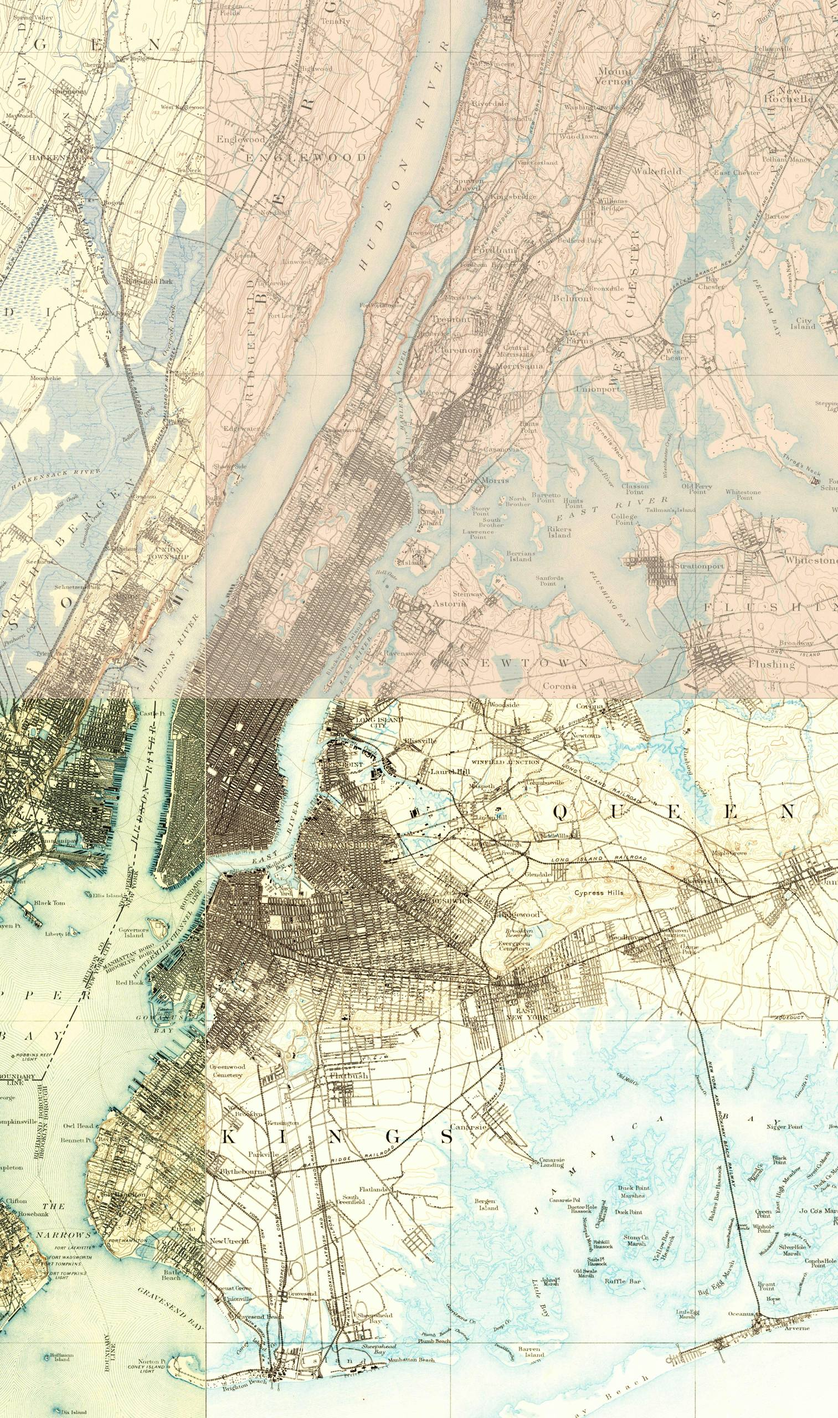
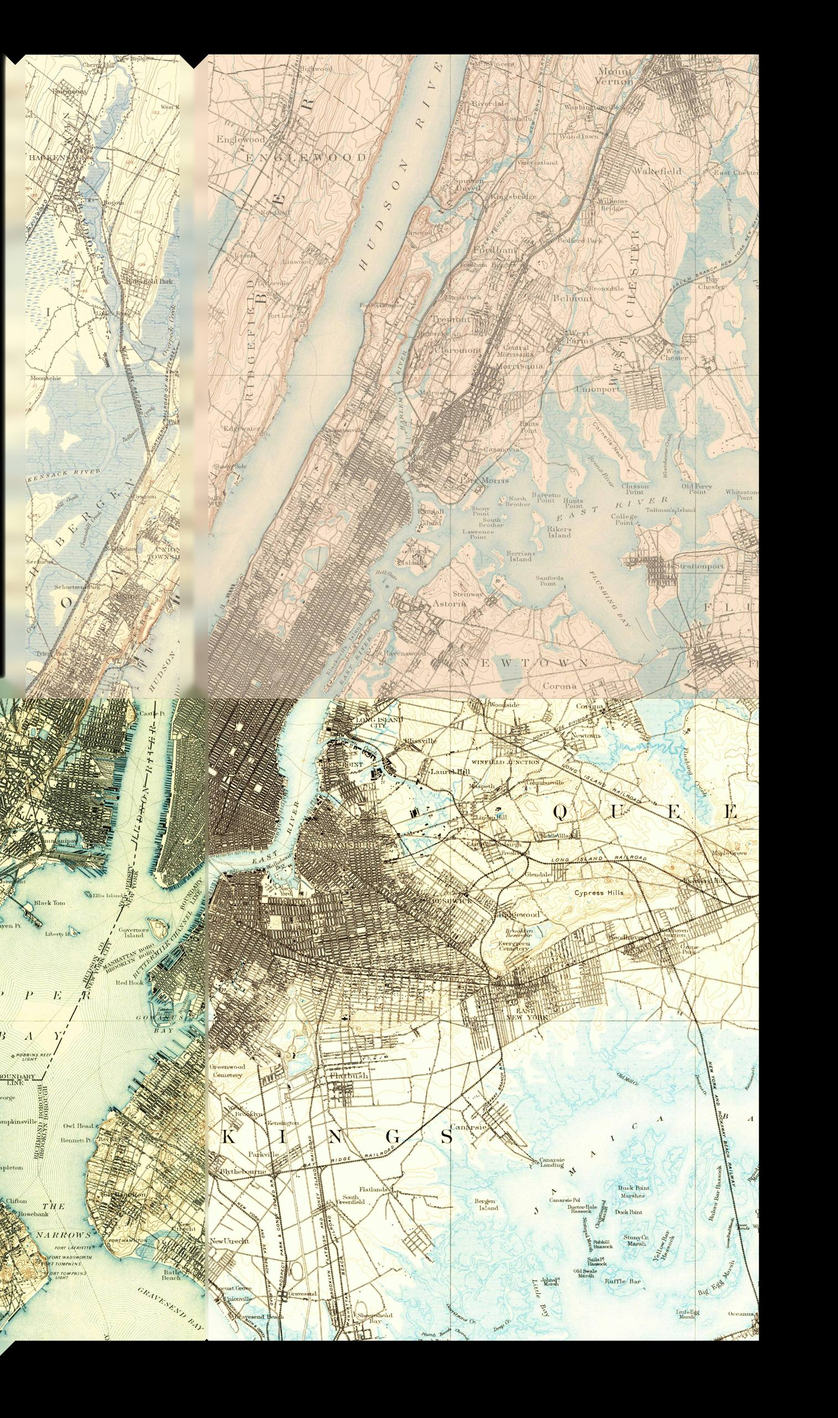
See-through water, more and smaller drops, town lists and use-vs-supply chart off the map, subtitle; trim map sheet collars
Claude-Session: https://claude.ai/code/session_01LXhDMrmviJH37T58DZayoe

Changed region(s): [[0.0, 0.0, 1.0, 1.0]]

diff --git a/web/src/main.ts b/web/src/main.ts
@@ -10,7 +10,7 @@ import { Bounds, Frame, HeightGrid, yOf, loadImage, mx, my } from "./geo";
 import { gridGeometry, shadeGLSL } from "./terrain";
 import { buildDam, DamData } from "./dams";
 import { TileTerrain } from "./tiles";
-import { buildDemand, storage, waterUse } from "./demand";
+import { buildDemand, storage, waterUse, demandSummary, DEMAND_NOTES } from "./demand";
 import { Catchments, catchGLSL, CatchInfo } from "./catchments";
 import { FlowParticles, buildPeaks, waterTableGrid } from "./flowfx";
 import { EPISODES, demandChart } from "./episodes";
@@ -104,6 +104,8 @@ async function main() {
     t.needsUpdate = true; return t;
   };
   const fillU = { value: new Float32Array(MAX_RES) };
+  // 1 while the old maps are shown: the water over them is then lighter, so the map shows through
+  const mapsU = { value: 1 };
   const box = (b: Bounds) => { const [x0, z0] = frame.xz(b.west, b.north), [x1, z1] = frame.xz(b.east, b.south); return new THREE.Vector4(x0, z0, x1, z1); };
   const regionBox = box(data.region.bounds);
   // the holes the tiles leave for the valley patches stop short of each patch's edge by its rim
@@ -293,7 +295,8 @@ async function main() {
           if ((id != ownId || vIn < 0.5) && id > 0 && id < ${MAX_RES}) {
             float f = 0.0;
             for (int k = 0; k < ${MAX_RES}; k++) if (k == id) f = fill[k];
-            c = mix(c, WATER, f * smoothstep(0.35, 0.65, texture2D(resCov, regionUv(vW)).g));
+            // lighter over a map, so the map shows through
+            c = mix(c, WATER, f * smoothstep(0.35, 0.65, texture2D(resCov, regionUv(vW)).g) * (1.0 - 0.35 * topoMix * min(has, 1.0)));
           }
           if (vIn < 0.5) c = applyCatch(c, vW);
           // the tiles around shade with detail of about depth/${TILE_SPACING_DIV} km; shade with the
@@ -313,27 +316,27 @@ async function main() {
     const b = box(v.bounds);
     const waterGeo = new THREE.PlaneGeometry(b.z - b.x, b.w - b.y);
     waterGeo.rotateX(-Math.PI / 2);
-    const wU = { mask: { value: tex(waterImg_) }, alpha: { value: 0 } };
+    const wU = { mask: { value: tex(waterImg_) }, alpha: { value: 0 }, maps: mapsU };
     const water = new THREE.Mesh(waterGeo, new THREE.ShaderMaterial({
       uniforms: wU, transparent: true, depthWrite: false,
       vertexShader: /* glsl */ `varying vec2 vUv; void main(){ vUv = uv; gl_Position = projectionMatrix * modelViewMatrix * vec4(position,1.0); }`,
       fragmentShader: /* glsl */ `
-        uniform sampler2D mask; uniform float alpha; varying vec2 vUv;
+        uniform sampler2D mask; uniform float alpha; uniform float maps; varying vec2 vUv;
         void main(){ if (texture2D(mask, vUv).r < 0.5) discard;
-          gl_FragColor = vec4(0.16, 0.38, 0.58, 0.88 * alpha); }`,
+          gl_FragColor = vec4(0.16, 0.38, 0.58, mix(0.88, 0.62, maps) * alpha); }`,
     }));
     water.position.set((b.x + b.z) / 2, 0, (b.y + b.w) / 2);
     scene.add(water);
     // older lakes under this reservoir, each a flat plane at its own level
     const oldLakes = v.old_lakes.map((o, k) => {
-      const ou = { mask: { value: tex(oldLakeImgs[k]) }, alpha: { value: 0 } };
+      const ou = { mask: { value: tex(oldLakeImgs[k]) }, alpha: { value: 0 }, maps: mapsU };
       const m = new THREE.Mesh(waterGeo, new THREE.ShaderMaterial({
         uniforms: ou, transparent: true, depthWrite: false,
         vertexShader: /* glsl */ `varying vec2 vUv; void main(){ vUv = uv; gl_Position = projectionMatrix * modelViewMatrix * vec4(position,1.0); }`,
         fragmentShader: /* glsl */ `
-          uniform sampler2D mask; uniform float alpha; varying vec2 vUv;
+          uniform sampler2D mask; uniform float alpha; uniform float maps; varying vec2 vUv;
           void main(){ if (texture2D(mask, vUv).r < 0.5) discard;
-            gl_FragColor = vec4(0.16, 0.38, 0.58, 0.9 * alpha); }`,
+            gl_FragColor = vec4(0.16, 0.38, 0.58, mix(0.9, 0.62, maps) * alpha); }`,
       }));
       m.position.set((b.x + b.z) / 2, yOf(o.level_m) + 0.002, (b.y + b.w) / 2);
       scene.add(m);
@@ -392,7 +395,8 @@ async function main() {
   });
   // the city's daily use against what the system can deliver, on the old distributing reservoir's block
   const demand = buildDemand(frame, (lo, la) => region.at(lo, la));
-  scene.add(demand.group);
+  // (the column is kept off the map; the city's use against supply is a chart panel, see useOn)
+  demand.group.visible = false;
   // modern ground anywhere: a valley patch where there is one (finer), else the region
   const groundAt = (lon: number, lat: number) => {
     for (const vv of valleys) if (vv.inside(lon, lat)) return vv.groundNow(lon, lat);
@@ -508,19 +512,22 @@ async function main() {
   }
   ugBtn.onclick = () => setUnderground(!underground);
 
+  // the communities a reservoir took, for the tap panel
+  const displacedLine = (r: Reservoir, t: number) => {
+    const dp = DISPLACED[r.name];
+    if (!dp || (fillFraction(r, t) === 0 && damProgress(r, t) === 0)) return "";
+    return `${fillFraction(r, t) > 0 ? "Drowned or moved" : "Being cleared"}: ${dp.places}${dp.note ? ` (${dp.note})` : ""}`;
+  };
   // ---- labels --------------------------------------------------------------------------
   const resLabels = data.reservoirs.map((r) => {
     const div = document.createElement("div");
     div.className = "label"; div.textContent = r.name.replace(" Reservoir", "");
-    // the communities it took, under its name, when close enough to read
-    const dp = DISPLACED[r.name];
-    const sub = dp ? document.createElement("div") : null;
-    if (sub && dp) { sub.className = "displaced"; div.appendChild(sub); }
+    // (the communities it took are shown when it is tapped, in the panel at the bottom)
     const o = new CSS2DObject(div);
     const [x, z] = frame.xz(r.lon, r.lat);
     o.position.set(x, yOf(Math.max(r.water_level_m, region.at(r.lon, r.lat))) + 0.4, z);
     scene.add(o);
-    return { r, div, sub, dp };
+    return { r, div };
   });
 
   // ---- views ---------------------------------------------------------------------------
@@ -582,6 +589,9 @@ async function main() {
   }
 
   const oldMaps = document.getElementById("oldmaps") as HTMLInputElement;
+  const useOn = document.getElementById("useOn") as HTMLInputElement, usePanel = document.getElementById("usePanel")!;
+  let useKey = "";
+  useOn.addEventListener("change", () => { usePanel.hidden = !useOn.checked; useKey = ""; });
   const catchOn = document.getElementById("catchOn") as HTMLInputElement;
   catchOn.addEventListener("change", () => { catchments.uniforms.catchOn.value = catchOn.checked ? 1 : 0; });
   const photosOn = document.getElementById("photosOn") as HTMLInputElement;
@@ -591,7 +601,7 @@ async function main() {
   const resById = new Map(data.reservoirs.map((r) => [r.id, r]));
   const drops = new FlowParticles(catchments.W, catchments.H, catchments.dir, catchments.acc, catchments.first, region,
     data.region.bounds, frame, (id) => { const r = resById.get(id); return r ? new THREE.Color(SYSTEM_COLORS[r.system] ?? "#cfe") : null; },
-    low ? 1500 : 4000);
+    low ? 3500 : 10000);
   scene.add(drops.points);
   const peaks = buildPeaks(region, frame);
   scene.add(peaks.group);
@@ -622,7 +632,7 @@ async function main() {
     const area = catchments.trace(lon, lat, cellKm * cellKm, res ? rid : 0);
     if (area === null) return;
     lastTap = hit.point.clone();
-    catchments.show(hit.point.clone(), area, waterUse(year), res?.name);
+    catchments.show(hit.point.clone(), area, waterUse(year), res?.name, res ? displacedLine(res, year) : "");
   });
   document.getElementById("traceClose")!.addEventListener("click", () => { catchments.clear(); lastTap = null; });
   // phones: the legend is a sheet behind a button
@@ -641,6 +651,7 @@ async function main() {
     for (const r of data.reservoirs) fillU.value[r.id] = fillNow(r);
     catchments.update((id) => { const r = data.reservoirs.find((q) => q.id === id); return !!r && fillFraction(r, t) > 0; });
     const mapsOn = oldMaps.checked ? 1 : 0;
+    mapsU.value = mapsOn;
     // valleys: the dam rises during construction, then the water climbs from the old valley floor.
     // The old maps fade out as the land is cleared, from construction to the start of filling.
     for (const vv of valleys) {
@@ -664,7 +675,11 @@ async function main() {
       for (const ol of vv.oldLakes) ol.u.alpha.value = (ol.res ? fillFraction(ol.res, t) > 0 : f0 < 0.5) ? 1 : 0;
       vv.oldRiver.visible = f0 < 0.999;
     }
-    demand.update(t);
+    if (useOn.checked && useKey !== t.toFixed(1)) {
+      useKey = t.toFixed(1);
+      usePanel.innerHTML = `<b>New York City, ${Math.floor(t)}</b><br>${demandSummary(t)}` + demandChart(t) +
+        `<div class="hint">${DEMAND_NOTES}</div>`;
+    }
     waterTable.position.y = -yOf((1 - dry) * 12);   // a drought lowers the water table too
     for (const { d, m } of damMeshes) {
       const p = damProgressFromYear(d as unknown as Dam, t);
@@ -681,15 +696,10 @@ async function main() {
         mat.opacity = (st === "retired" ? 0.55 : 1) * (isX ? (underground ? 0.9 : 0.6) : 1);
       }
     }
-    const camNear = camera.position.distanceTo(controls.target) < 90;
-    for (const { r, div, sub, dp } of resLabels) {
+    for (const { r, div } of resLabels) {
       const f2 = fillFraction(r, t), building = damProgress(r, t) > 0 && f2 === 0 && t < (r.in_service ?? 9999);
       div.style.opacity = f2 > 0 || building ? "1" : "0";
       div.classList.toggle("building", building);
-      if (sub && dp) {
-        sub.style.display = camNear && (f2 > 0 || building) ? "block" : "none";
-        sub.textContent = `${f2 > 0 ? "Drowned or moved" : "Being cleared"}: ${dp.places}${dp.note ? ` (${dp.note})` : ""}`;
-      }
     }
     // captions: events from the last 6 years, newest first
     const recent = data.events.filter((e) => e.year <= t && e.year > t - 6).slice(-5).reverse();

diff --git a/web/index.html b/web/index.html
@@ -4,14 +4,14 @@
   <meta charset="utf-8" />
   <meta name="viewport" content="width=device-width, initial-scale=1, maximum-scale=1, viewport-fit=cover" />
   <meta name="theme-color" content="#0f1418" />
-  <title>Catchment</title>
+  <title>Catchment: how New York was quenched</title>
   <link rel="stylesheet" href="./src/style.css" />
 </head>
 <body>
   <div id="app"></div>
   <header id="title">
     <h1>Catchment</h1>
-    <p>How New York City built its water supply</p>
+    <p>How New York was quenched</p>
   </header>
   <nav id="views">
     <button id="storiesBtn" class="stories">Stories</button>
@@ -42,9 +42,11 @@
     <label><input type="checkbox" id="oldmaps" checked /> Old maps</label>
     <label><input type="checkbox" id="catchOn" checked /> Catchments</label>
     <label><input type="checkbox" id="photosOn" /> Aerial photos (today)</label>
-    <div class="hint">Tap or click the ground to see everything that drains to that spot.</div>
+    <label><input type="checkbox" id="useOn" /> City's use vs. supply (chart)</label>
+    <div class="hint">Tap or click the ground to see everything that drains to that spot; tap a reservoir for its catchment and the towns it took.</div>
     <small>Old maps: USGS Historical Topographic Map Collection, 1891–1998; Manhattan 1836–1865: images from the <a href="https://www.davidrumsey.com/">David Rumsey Map Collection</a> courtesy Stanford University Libraries (CC BY-NC-SA 3.0). Terrain: AWS Terrain Tiles. Aerial photos: USGS The National Map. Routes, lakes, rivers: © <a href="https://www.openstreetmap.org/copyright">OpenStreetMap</a> contributors</small>
   </aside>
+  <section id="usePanel" hidden aria-live="polite"></section>
   <section id="traceInfo" hidden aria-live="polite"><div id="traceText"></div><button id="traceClose" aria-label="Clear the traced area">✕</button></section>
   <footer id="timebar">
     <button id="play" aria-label="Play">▶</button>

diff --git a/web/src/style.css b/web/src/style.css
@@ -62,6 +62,12 @@ button.on { background: rgba(255,255,255,0.26); border-color: rgba(255,255,255,0
 .label { color: #fff; font-size: 12px; text-shadow: 0 1px 3px #000, 0 0 2px #000; white-space: nowrap;
   pointer-events: none; transition: opacity 0.4s; }
 .label.building { color: var(--amber); }
+#traceInfo .displaced { color: #f3dcc0; }
+#usePanel { position: fixed; right: 16px; top: 64px; width: 300px; background: var(--panel); border-radius: 8px;
+  padding: 8px 10px; font-size: 12px; line-height: 1.4; }
+#usePanel[hidden] { display: none; }
+#usePanel .hint { color: var(--muted); font-size: 10px; }
+#usePanel .drought { color: #f0a080; font-weight: 600; }
 .label .displaced { white-space: normal; width: 220px; margin-top: 2px; font-size: 11px; color: #f3dcc0; line-height: 1.3; }
 .label.peak { color: #f4eee0; font-size: 11px; opacity: 0.9; }
 .label.peak span { color: #c9c2b0; font-size: 10px; }
@@ -129,6 +135,7 @@ body.story-on #captions { display: none; }
     max-height: 48vh; overflow-y: auto; }
   #story p { font-size: 13px; }
   #timebar { left: 8px; right: 8px; bottom: max(8px, env(safe-area-inset-bottom)); gap: 8px; padding: 8px 10px; }
+  #usePanel { left: 8px; right: 8px; width: auto; top: calc(max(8px, env(safe-area-inset-top)) + 92px); }
   #traceInfo { bottom: calc(max(8px, env(safe-area-inset-bottom)) + 76px); width: calc(100vw - 16px); font-size: 13px; }
   #play { width: 44px; height: 44px; }
   #year { font-size: 20px; width: 50px; }

diff --git a/web/src/demand.ts b/web/src/demand.ts
@@ -68,6 +68,15 @@ export function storage(y: number): { s: number; name: string | null } {
 export const supply = (y: number) => lerp(SUPPLY, y, true);
 export const population = (y: number) => lerp(POP, y);
 
+/** One year's people, use, what the system could draw, and any drought, as short HTML lines. */
+export function demandSummary(year: number): string {
+  const u = waterUse(year), s = supply(year), p = population(year), dr = storage(year);
+  if (u <= 0) return `${(p / 1e6).toFixed(2)} million people, on wells, cisterns and ponds`;
+  const fmt = (mgd: number) => (mgd >= 1000 ? `${(mgd / 1000).toFixed(2)} billion` : `${Math.round(mgd)} million`);
+  return `${(p / 1e6).toFixed(p < 1e6 ? 2 : 1)} million people · use ≈ ${fmt(u)} gal a day · can draw ≈ ${fmt(s)}` +
+    (dr.name && dr.s < 0.97 ? `<br><span class="drought">${dr.name}: reservoirs ≈ ${Math.round(dr.s * 100)}% full</span>` : "");
+}
+
 const M3_PER_MG = 3785.41;
 const ANCHOR: [number, number] = [-73.98, 40.7536];   // Fifth Avenue at 42nd Street
 const BEARING = 29;                                   // Manhattan's avenues, degrees east of north

diff --git a/web/src/catchments.ts b/web/src/catchments.ts
@@ -172,12 +172,13 @@ export class Catchments {
     this.uniforms.tracedOn.value = 1;
   }
 
-  show(pos: THREE.Vector3, areaKm2: number, cityMgd: number, name?: string) {
+  show(pos: THREE.Vector3, areaKm2: number, cityMgd: number, name?: string, extra = "") {
     const rainMgd = (areaKm2 * 1e6 * RAIN_M_PER_YEAR) / 365 / M3_PER_MG;
     const pct = (rainMgd / cityMgd) * 100;
     const share = cityMgd > 0 ? ` — ${pct < 1 ? "under 1" : Math.round(pct)}% of what the city uses` : "";
     const a = areaKm2 < 10 ? areaKm2.toFixed(1) : Math.round(areaKm2).toLocaleString();
     this.panelText.innerHTML = `<b>${a} km² drains ${name ? "into " + name : "to the marked spot"}</b><br>rain on it ≈ ${Math.round(rainMgd).toLocaleString()} million gal a day on average${share}` +
+      (extra ? `<br><span class="displaced">${extra}</span>` : "") +
       `<br><span class="hint">tap elsewhere to trace again, or the same spot to clear</span>`;
     this.panel.hidden = false;
     this.label.position.copy(pos);

diff --git a/web/src/flowfx.ts b/web/src/flowfx.ts
@@ -37,7 +37,7 @@ export class FlowParticles {
     geo.setAttribute("position", new THREE.BufferAttribute(this.pos, 3));
     geo.setAttribute("color", new THREE.BufferAttribute(this.col, 3));
     this.points = new THREE.Points(geo, new THREE.PointsMaterial({
-      size: 3, sizeAttenuation: false, vertexColors: true, transparent: true, opacity: 0.85, depthWrite: false,
+      size: 2, sizeAttenuation: false, vertexColors: true, transparent: true, opacity: 0.85, depthWrite: false,
     }));
     this.points.frustumCulled = false;
     this.points.renderOrder = 2;

diff --git a/pipeline/map_editions.py b/pipeline/map_editions.py
@@ -64,8 +64,44 @@ def composite(sheets, meta, folder):
                 reproject(r.read(min(b + 1, r.count)), tmp[b], src_transform=r.transform, src_crs=r.crs,
                           dst_transform=dst_T, dst_crs="EPSG:3857", resampling=Resampling.bilinear)
         m = ((lon_px >= qw) & (lon_px < qe))[None, :] & ((lat_px >= qs) & (lat_px < qn))[:, None] & (tmp.sum(0) > 0)
+        m &= ~collar(tmp, m)
         tex[:, m] = tmp[:, m]
+    # narrow gaps left by trimmed collars: filled with a blur of the map around them (normalized
+    # convolution), so the seam between two sheets doesn't open into a strip with no map
+    from scipy import ndimage
+    empty = tex.sum(0) == 0
+    if empty.any() and not empty.all():
+        near = empty & ~ndimage.binary_opening(empty, iterations=60)
+        if near.any():
+            w = ndimage.gaussian_filter((~empty).astype(np.float32), 25)
+            for b in range(3):
+                v = ndimage.gaussian_filter(tex[b].astype(np.float32), 25) / np.maximum(w, 1e-3)
+                tex[b][near] = np.clip(v[near], 0, 255).astype(np.uint8)
     return tex.transpose(1, 2, 0)
+
+
+def collar(tmp, m):
+    """The blank paper margin some scans keep inside their catalogue box: whole columns and rows,
+    in from each side of the box, that are nearly all pale grey or white."""
+    white = (tmp.min(0) > 180) & m
+    out = np.zeros_like(m)
+    ys, xs = np.nonzero(m)
+    if not len(xs): return out
+    y0, y1, x0, x1 = ys.min(), ys.max() + 1, xs.min(), xs.max() + 1
+    colw = white[y0:y1, x0:x1].mean(0); roww = white[y0:y1, x0:x1].mean(1)
+    def run(frac, rev):
+        idx = range(len(frac) - 1, -1, -1) if rev else range(len(frac))
+        n = 0
+        for i in idx:
+            if frac[i] > 0.6: n += 1
+            else: break
+        # (and a few pixels more, past the paler edge of the printed map)
+        return min(n + 10 if n else 0, len(frac) // 8)   # never more than an eighth of the sheet
+    a, b = run(colw, False), run(colw, True)
+    c, d = run(roww, False), run(roww, True)
+    out[y0:y1, x0:x0 + a] = True; out[y0:y1, x1 - b:x1] = True
+    out[y0:y0 + c, x0:x1] = True; out[y1 - d:y1, x0:x1] = True
+    return out & m
 
 
 def pick(items, lo, hi):
